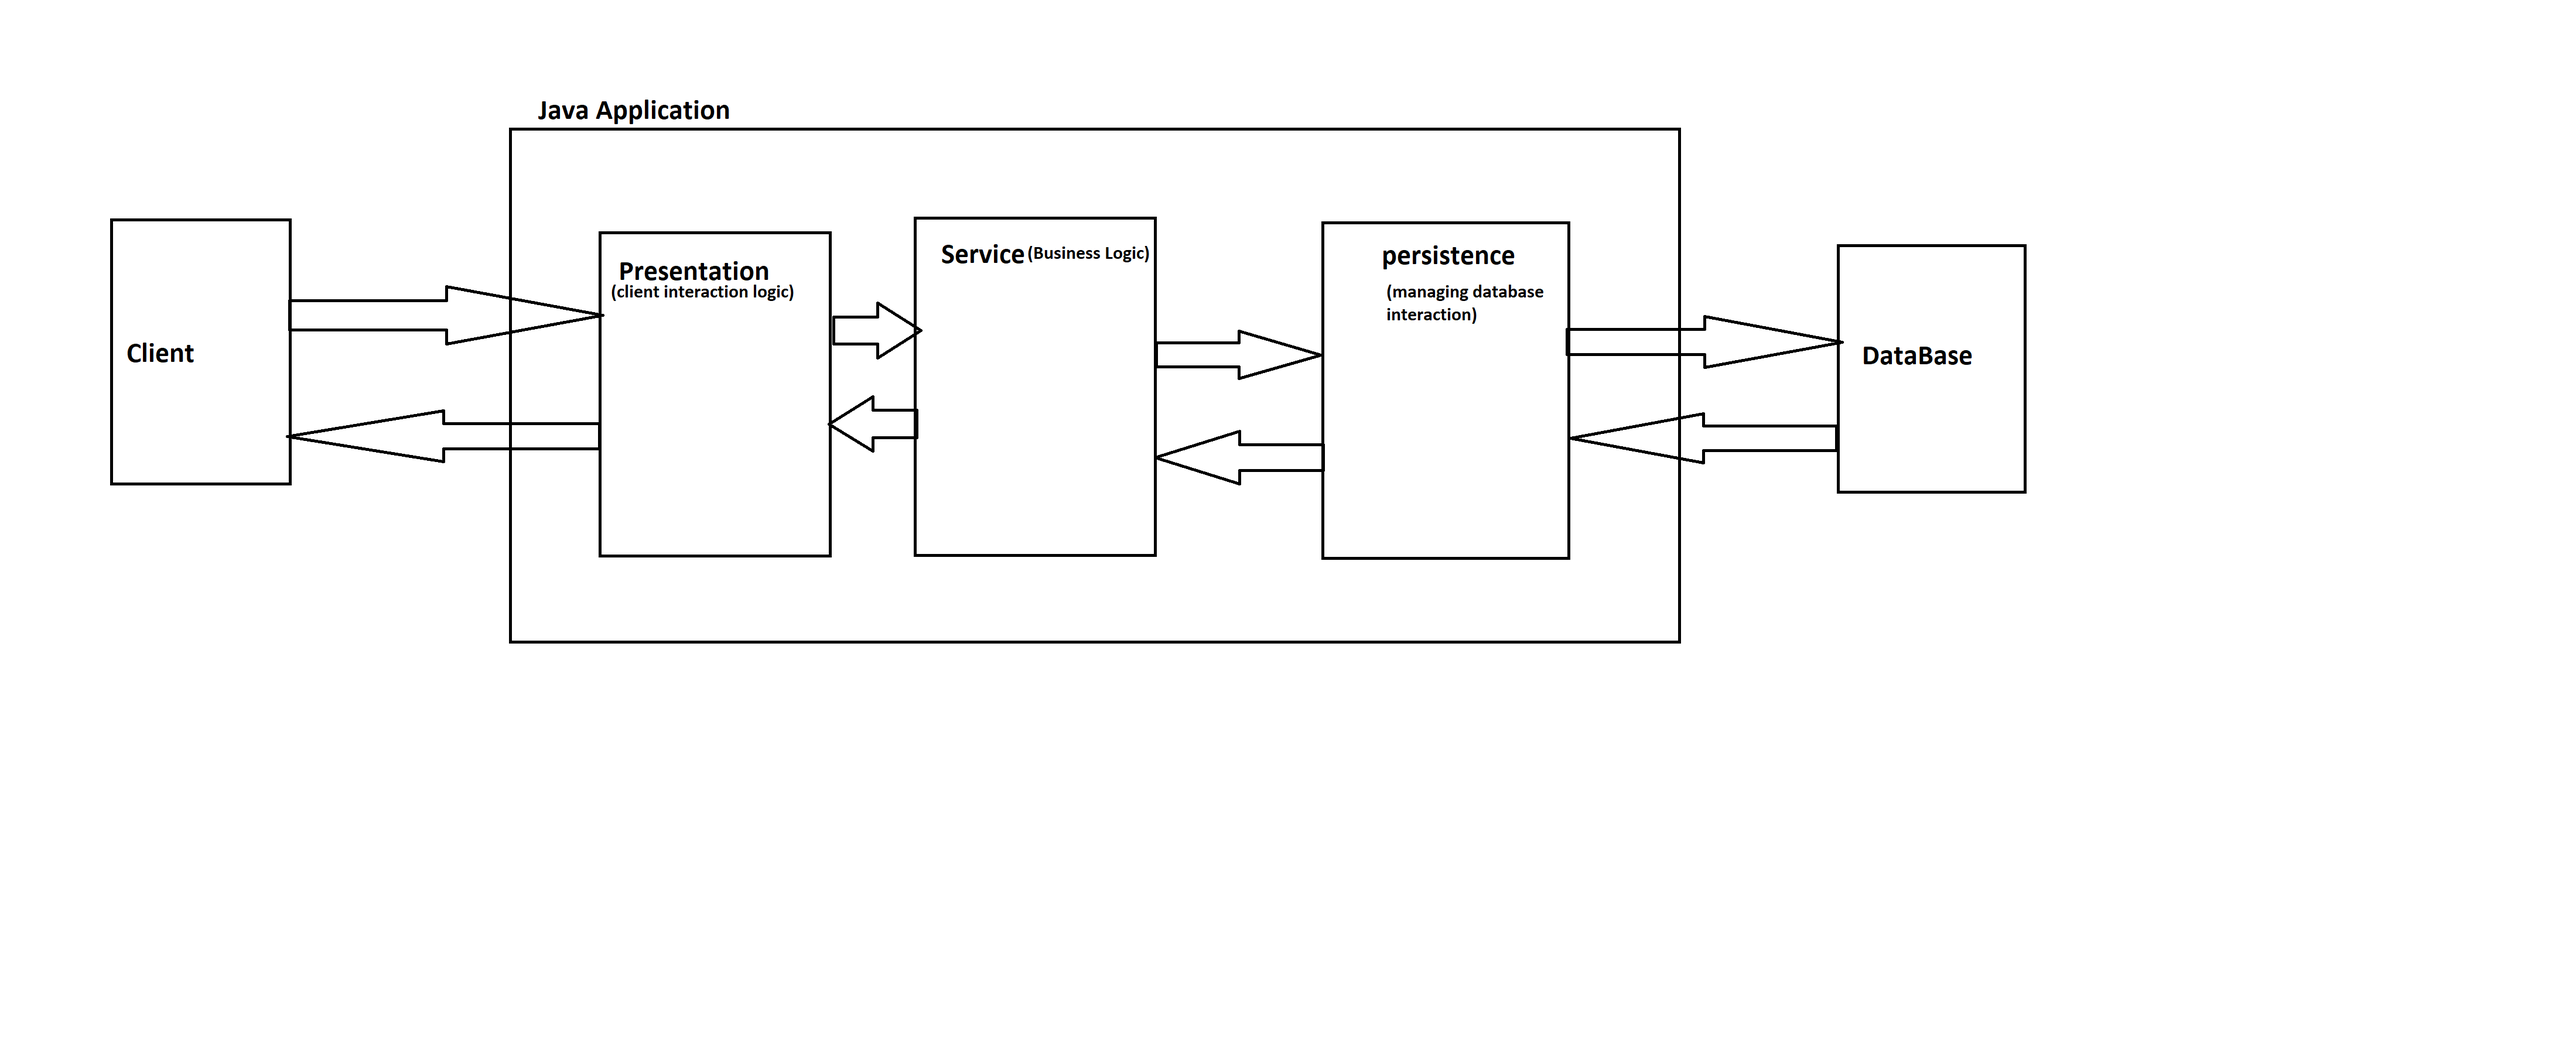
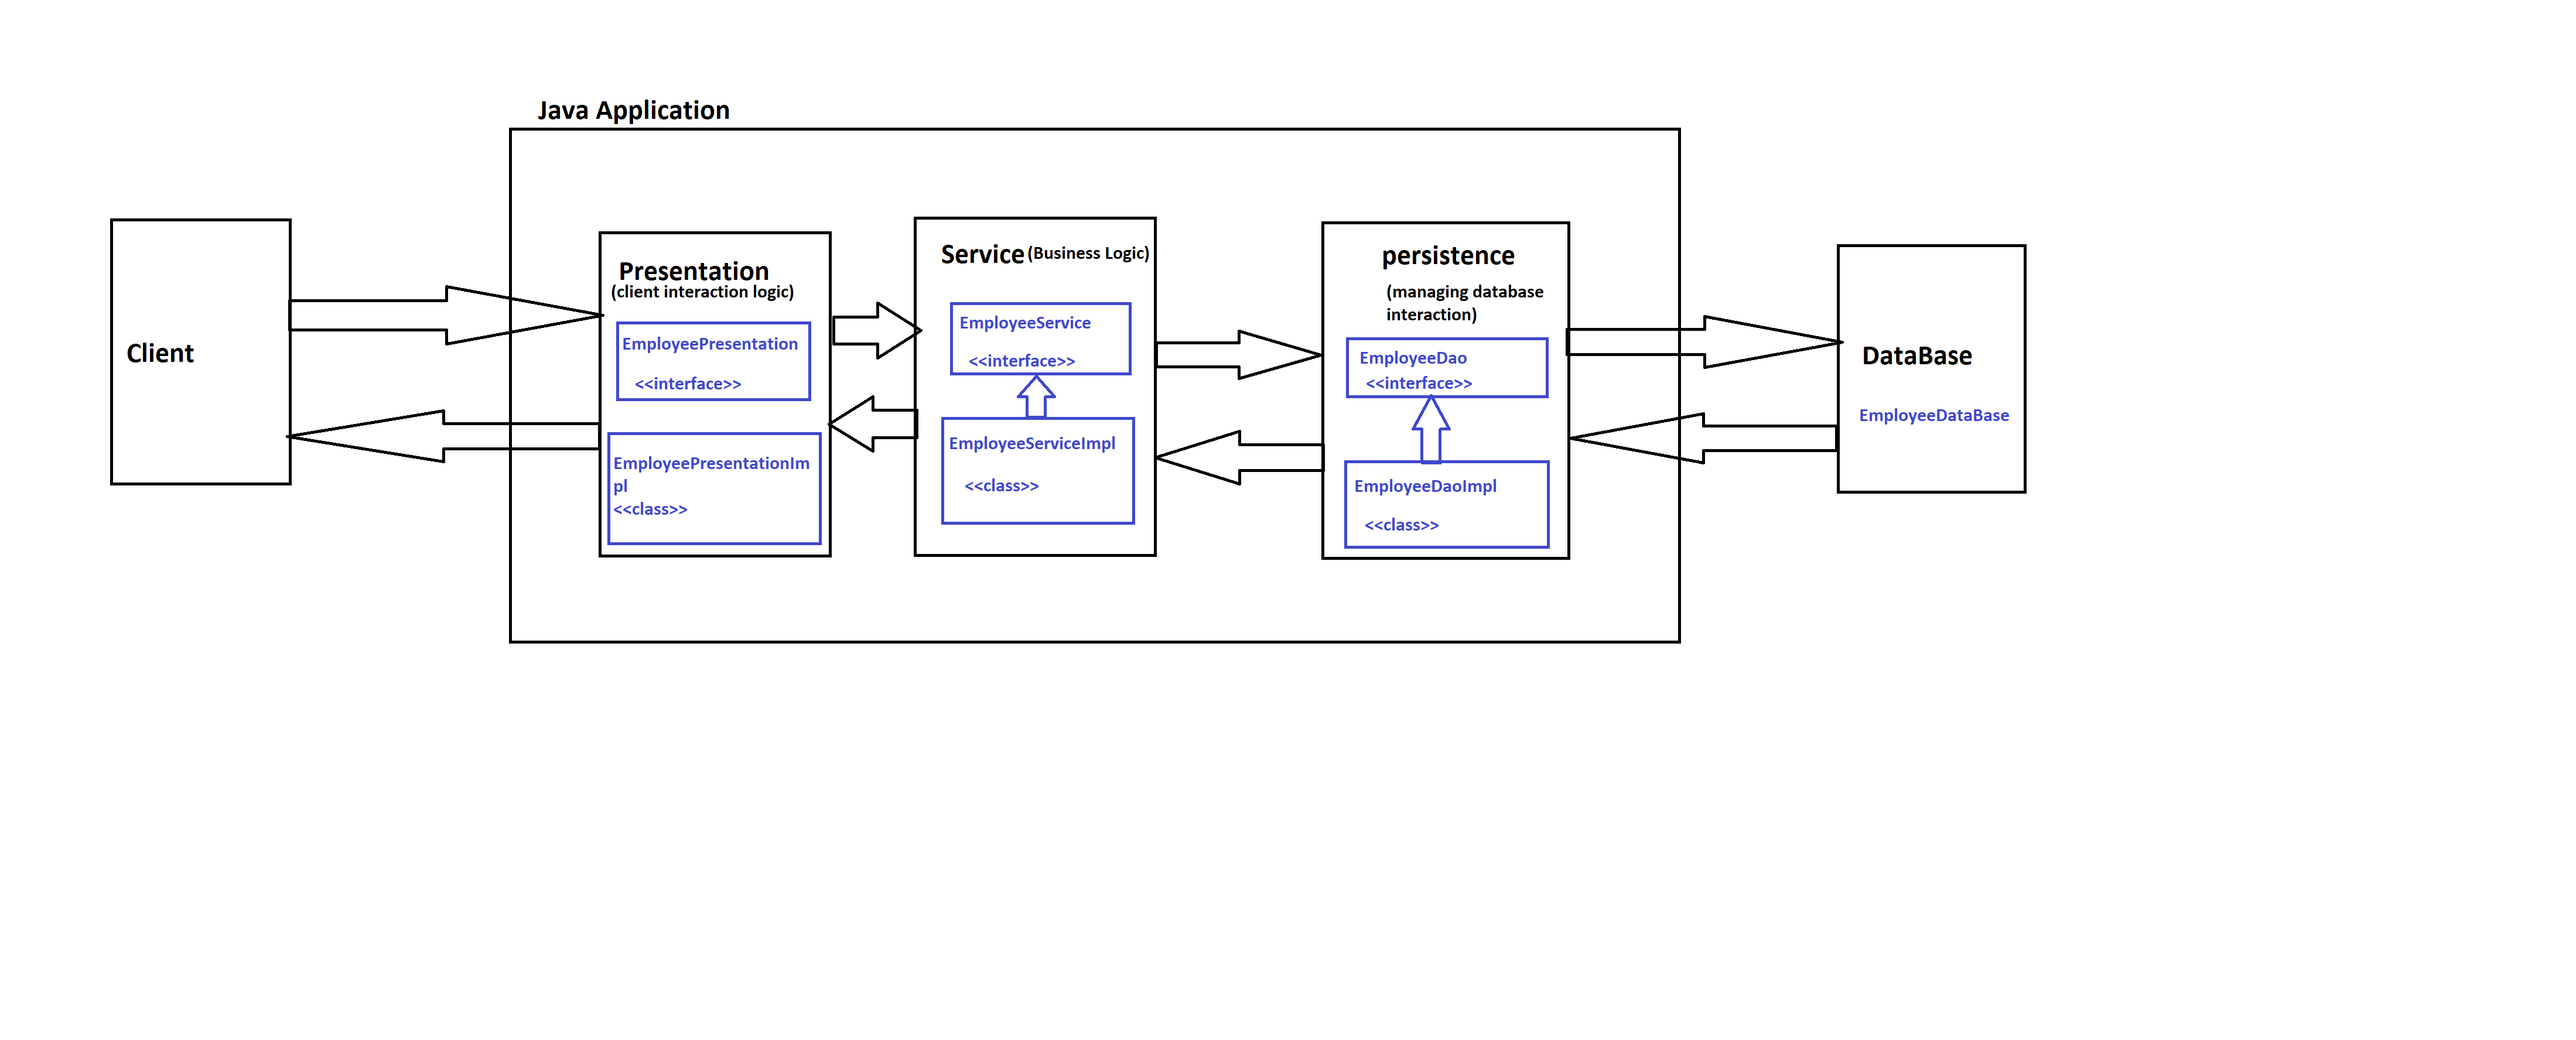
Add files via upload

diff --git a/Day8/EmployeeLayeredProjectPart1/src/com/sujata/presentation/EmployeePresentationImpl.java b/Day8/EmployeeLayeredProjectPart1/src/com/sujata/presentation/EmployeePresentationImpl.java
@@ -1,0 +1,49 @@
+package com.sujata.presentation;
+
+import java.util.Collection;
+import java.util.Scanner;
+
+import com.sujata.entity.Employee;
+import com.sujata.service.EmployeeService;
+import com.sujata.service.EmployeeServiceImpl;
+
+public class EmployeePresentationImpl implements EmployeePresentation {
+
+	private EmployeeService employeeService=new EmployeeServiceImpl();
+	
+	@Override
+	public void showMenu() {
+		System.out.println("1. List All Employees");
+		System.out.println("2. Search Employee By ID");
+		System.out.println("3. Exit");
+	}
+
+	@Override
+	public void performMenu(int choice) {
+		Scanner scanner=new Scanner(System.in);
+		switch (choice) {
+		case 1:
+			Collection<Employee> empList=employeeService.getAllEmployee();
+			for(Employee emp:empList) {
+				System.out.println(emp);
+			}
+			break;
+		case 2:
+			System.out.println("Enter Employee ID to be searched for : ");
+			int employeeId=scanner.nextInt();
+			Employee employee=employeeService.searchEmployeeById(employeeId);
+			if(employee!=null)
+				System.out.println(employee);
+			else
+				System.out.println("Employee with id "+employeeId+" does not exist!");
+			break;
+		case 3:
+			System.out.println("Thanks for using Employee Management System!");
+			System.exit(0);
+		default:
+			break;
+		}
+
+	}
+
+}

diff --git a/Day8/EmployeeLayeredProjectPart1/src/com/sujata/database/EmployeeDataBase.java b/Day8/EmployeeLayeredProjectPart1/src/com/sujata/database/EmployeeDataBase.java
@@ -1,0 +1,29 @@
+package com.sujata.database;
+
+import java.util.Map;
+import java.util.TreeMap;
+
+import com.sujata.entity.Employee;
+
+public class EmployeeDataBase {
+
+	private static Map<Integer, Employee> employeeList=new TreeMap<Integer, Employee>();
+
+	static {
+		employeeList.put(101, new Employee(101, "Adam", "Executive", "Sales", 25000));
+		employeeList.put(102, new Employee(102, "Bran", "Sr. Associate", "IT", 68000));
+		employeeList.put(103, new Employee(103, "Chander", "Manager", "Marketing", 245000));
+		employeeList.put(104, new Employee(104, "Daneal", "Sr. Manager", "Sales", 325000));
+		employeeList.put(105, new Employee(105, "Era", "Executive", "IT", 35000));
+	}
+
+	public static Map<Integer, Employee> getEmployeeList() {
+		return employeeList;
+	}
+
+	public static void setEmployeeList(Map<Integer, Employee> employeeList) {
+		EmployeeDataBase.employeeList = employeeList;
+	}
+	
+	
+}

diff --git a/Day8/EmployeeLayeredProjectPart1/src/com/sujata/client/EmployeeClient.java b/Day8/EmployeeLayeredProjectPart1/src/com/sujata/client/EmployeeClient.java
@@ -1,0 +1,23 @@
+package com.sujata.client;
+
+import java.util.Scanner;
+
+import com.sujata.presentation.EmployeePresentation;
+import com.sujata.presentation.EmployeePresentationImpl;
+
+public class EmployeeClient {
+
+	public static void main(String[] args) {
+		Scanner scanner=new Scanner(System.in);
+		EmployeePresentation employeePresentation=new EmployeePresentationImpl();
+
+		while(true) {
+			employeePresentation.showMenu();
+			System.out.println("Enter Choice : ");
+			int choice=scanner.nextInt();
+			employeePresentation.performMenu(choice);
+			System.out.println("=======================================");
+		}
+	}
+
+}

diff --git a/Day8/EmployeeLayeredProjectPart1/src/com/sujata/service/EmployeeServiceImpl.java b/Day8/EmployeeLayeredProjectPart1/src/com/sujata/service/EmployeeServiceImpl.java
@@ -1,0 +1,25 @@
+package com.sujata.service;
+
+import java.util.Collection;
+
+import com.sujata.entity.Employee;
+import com.sujata.persistence.EmployeeDao;
+import com.sujata.persistence.EmployeeDaoImpl;
+
+public class EmployeeServiceImpl implements EmployeeService {
+
+	private EmployeeDao employeeDao=new EmployeeDaoImpl();
+	
+	@Override
+	public Collection<Employee> getAllEmployee() {
+		return employeeDao.getAllReccord();
+	}
+
+	@Override
+	public Employee searchEmployeeById(int employeeId) {
+		
+		return employeeDao.getRecordById(employeeId);
+		
+	}
+
+}

diff --git a/Day8/EmployeeLayeredProjectPart1/src/com/sujata/persistence/EmployeeDaoImpl.java b/Day8/EmployeeLayeredProjectPart1/src/com/sujata/persistence/EmployeeDaoImpl.java
@@ -1,0 +1,21 @@
+package com.sujata.persistence;
+
+import java.util.Collection;
+
+import com.sujata.database.EmployeeDataBase;
+import com.sujata.entity.Employee;
+
+public class EmployeeDaoImpl implements EmployeeDao {
+
+	
+	@Override
+	public Collection<Employee> getAllReccord() {
+		return EmployeeDataBase.getEmployeeList().values();
+	}
+
+	@Override
+	public Employee getRecordById(int employeeId) {
+		return EmployeeDataBase.getEmployeeList().get(employeeId);
+	}
+
+}

diff --git a/Day8/EmployeeLayeredProjectPart1/src/com/sujata/entity/Employee.java b/Day8/EmployeeLayeredProjectPart1/src/com/sujata/entity/Employee.java
@@ -1,0 +1,19 @@
+package com.sujata.entity;
+
+import lombok.AllArgsConstructor;
+import lombok.Data;
+import lombok.NoArgsConstructor;
+import lombok.ToString;
+
+@Data
+@NoArgsConstructor
+@AllArgsConstructor
+@ToString
+public class Employee {
+
+	private int employeeId;
+	private String employeeName;
+	private String designation;
+	private String department;
+	private double salary;
+}

diff --git a/Day8/EmployeeLayeredProjectPart1/src/com/sujata/service/EmployeeService.java b/Day8/EmployeeLayeredProjectPart1/src/com/sujata/service/EmployeeService.java
@@ -1,0 +1,11 @@
+package com.sujata.service;
+
+import java.util.Collection;
+
+import com.sujata.entity.Employee;
+
+public interface EmployeeService {
+
+	Collection<Employee> getAllEmployee();
+	Employee searchEmployeeById(int employeeId);
+}

diff --git a/Day8/EmployeeLayeredProjectPart1/src/com/sujata/persistence/EmployeeDao.java b/Day8/EmployeeLayeredProjectPart1/src/com/sujata/persistence/EmployeeDao.java
@@ -1,0 +1,11 @@
+package com.sujata.persistence;
+
+import java.util.Collection;
+
+import com.sujata.entity.Employee;
+
+public interface EmployeeDao {
+
+	Collection<Employee> getAllReccord();
+	Employee getRecordById(int employeeId);
+}

diff --git a/Day8/EmployeeLayeredProjectPart1/src/com/sujata/presentation/EmployeePresentation.java b/Day8/EmployeeLayeredProjectPart1/src/com/sujata/presentation/EmployeePresentation.java
@@ -1,0 +1,7 @@
+package com.sujata.presentation;
+
+public interface EmployeePresentation {
+
+	void showMenu();
+	void performMenu(int choice);
+}
